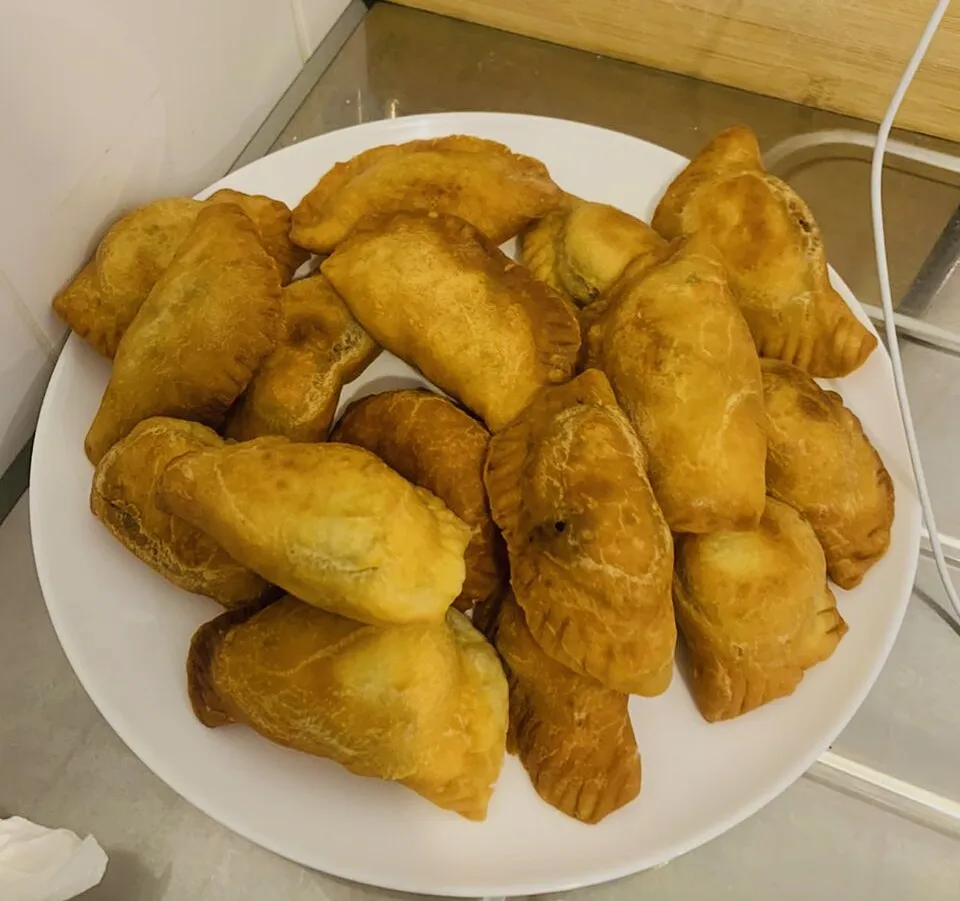
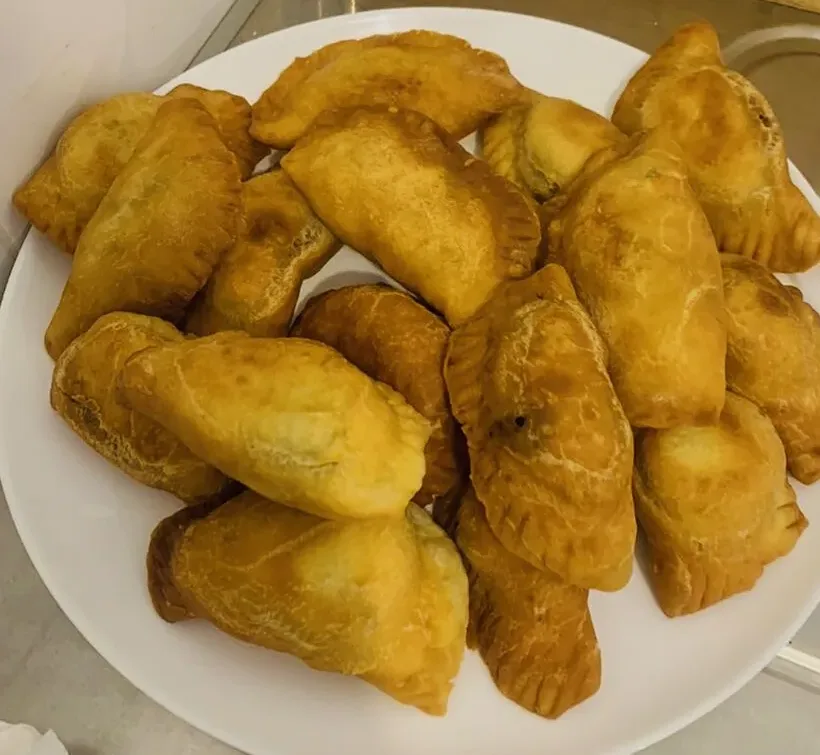
Pastel de viande : vraie photo de pastels (Wikimedia Commons, CC BY-SA 4.0) à la place de l'image IA ; outil temporaire retiré
Claude-Session: https://claude.ai/code/session_01KEeSnM68Kdi3q8XfwK8sCK

diff --git a/server/seed.js b/server/seed.js
@@ -965,6 +965,17 @@ async function initSousRubriques(store, { log = console } = {}) {
     await store.set('site/reglages', { ...(await store.get('site/reglages')), paellaSansIngredients: true });
   }
 
+  /* Pastel de viande : vraie photo de pastels (Wikimedia Commons, « Fataya », Cheikh cherif, CC BY-SA 4.0) à la place de l'image IA (Jean-Luc, 2026-11-23). */
+  const RPv = await store.get('site/reglages');
+  if (RPv && !RPv.pastelVraiePhoto) {
+    const IA = '/site/c/africain-boutique/pastel-de-viande-a-lunite-1.webp.webp', VRAIE = '/site/c/africain-boutique/pastels-viande-vrais.webp';
+    for (const { id, data: p } of await store.list('produits')) {
+      if (!Array.isArray(p.photos) || !p.photos.some(ph => ph && ph.src === IA)) continue;
+      await store.set('produits/' + id, { ...p, photos: p.photos.map(ph => ph && ph.src === IA ? { src: VRAIE, alt: 'Pastels à la viande dorés' } : ph) });
+    }
+    await store.set('site/reglages', { ...(await store.get('site/reglages')), pastelVraiePhoto: true });
+  }
+
   /* paragraphe de présentation de chaque rubrique et de la page Lieux (Jean-Luc, 2026-11-22). Posé une fois, seulement si vide. */
   const RIr = await store.get('site/reglages');
   if (RIr && !RIr.introsRubriques) {

diff --git a/data/credits-photos-univers.md b/data/credits-photos-univers.md
@@ -184,3 +184,8 @@ Vraies photos libres regardées une à une (sans texte ni logo ; quelques-unes r
 - Champignons noirs sautés : avlxyz, BY-SA 2.0, Flickr via Openverse, https://www.flickr.com/photos/10559879@N00/2268561764
 - Légumes chop suey : Obsidian Soul, CC0, Wikimedia Commons, https://commons.wikimedia.org/wiki/File:Chop_suey_(Philippines).jpg
 - Riz nature : Anna Frodesiak, CC0, Wikimedia Commons, https://commons.wikimedia.org/wiki/File:Steamed_rice_in_bowl_01.jpg
+
+## Buffet africain, pastel de viande (2026-11-23)
+| Fiche | Photo | Auteur | Licence | Source |
+|---|---|---|---|---|
+| Pastel de viande (à la place d'une image IA) | public/site/c/africain-boutique/pastels-viande-vrais.webp | Cheikh cherif | CC BY-SA 4.0 | https://commons.wikimedia.org/wiki/File:Fataya.jpg |
